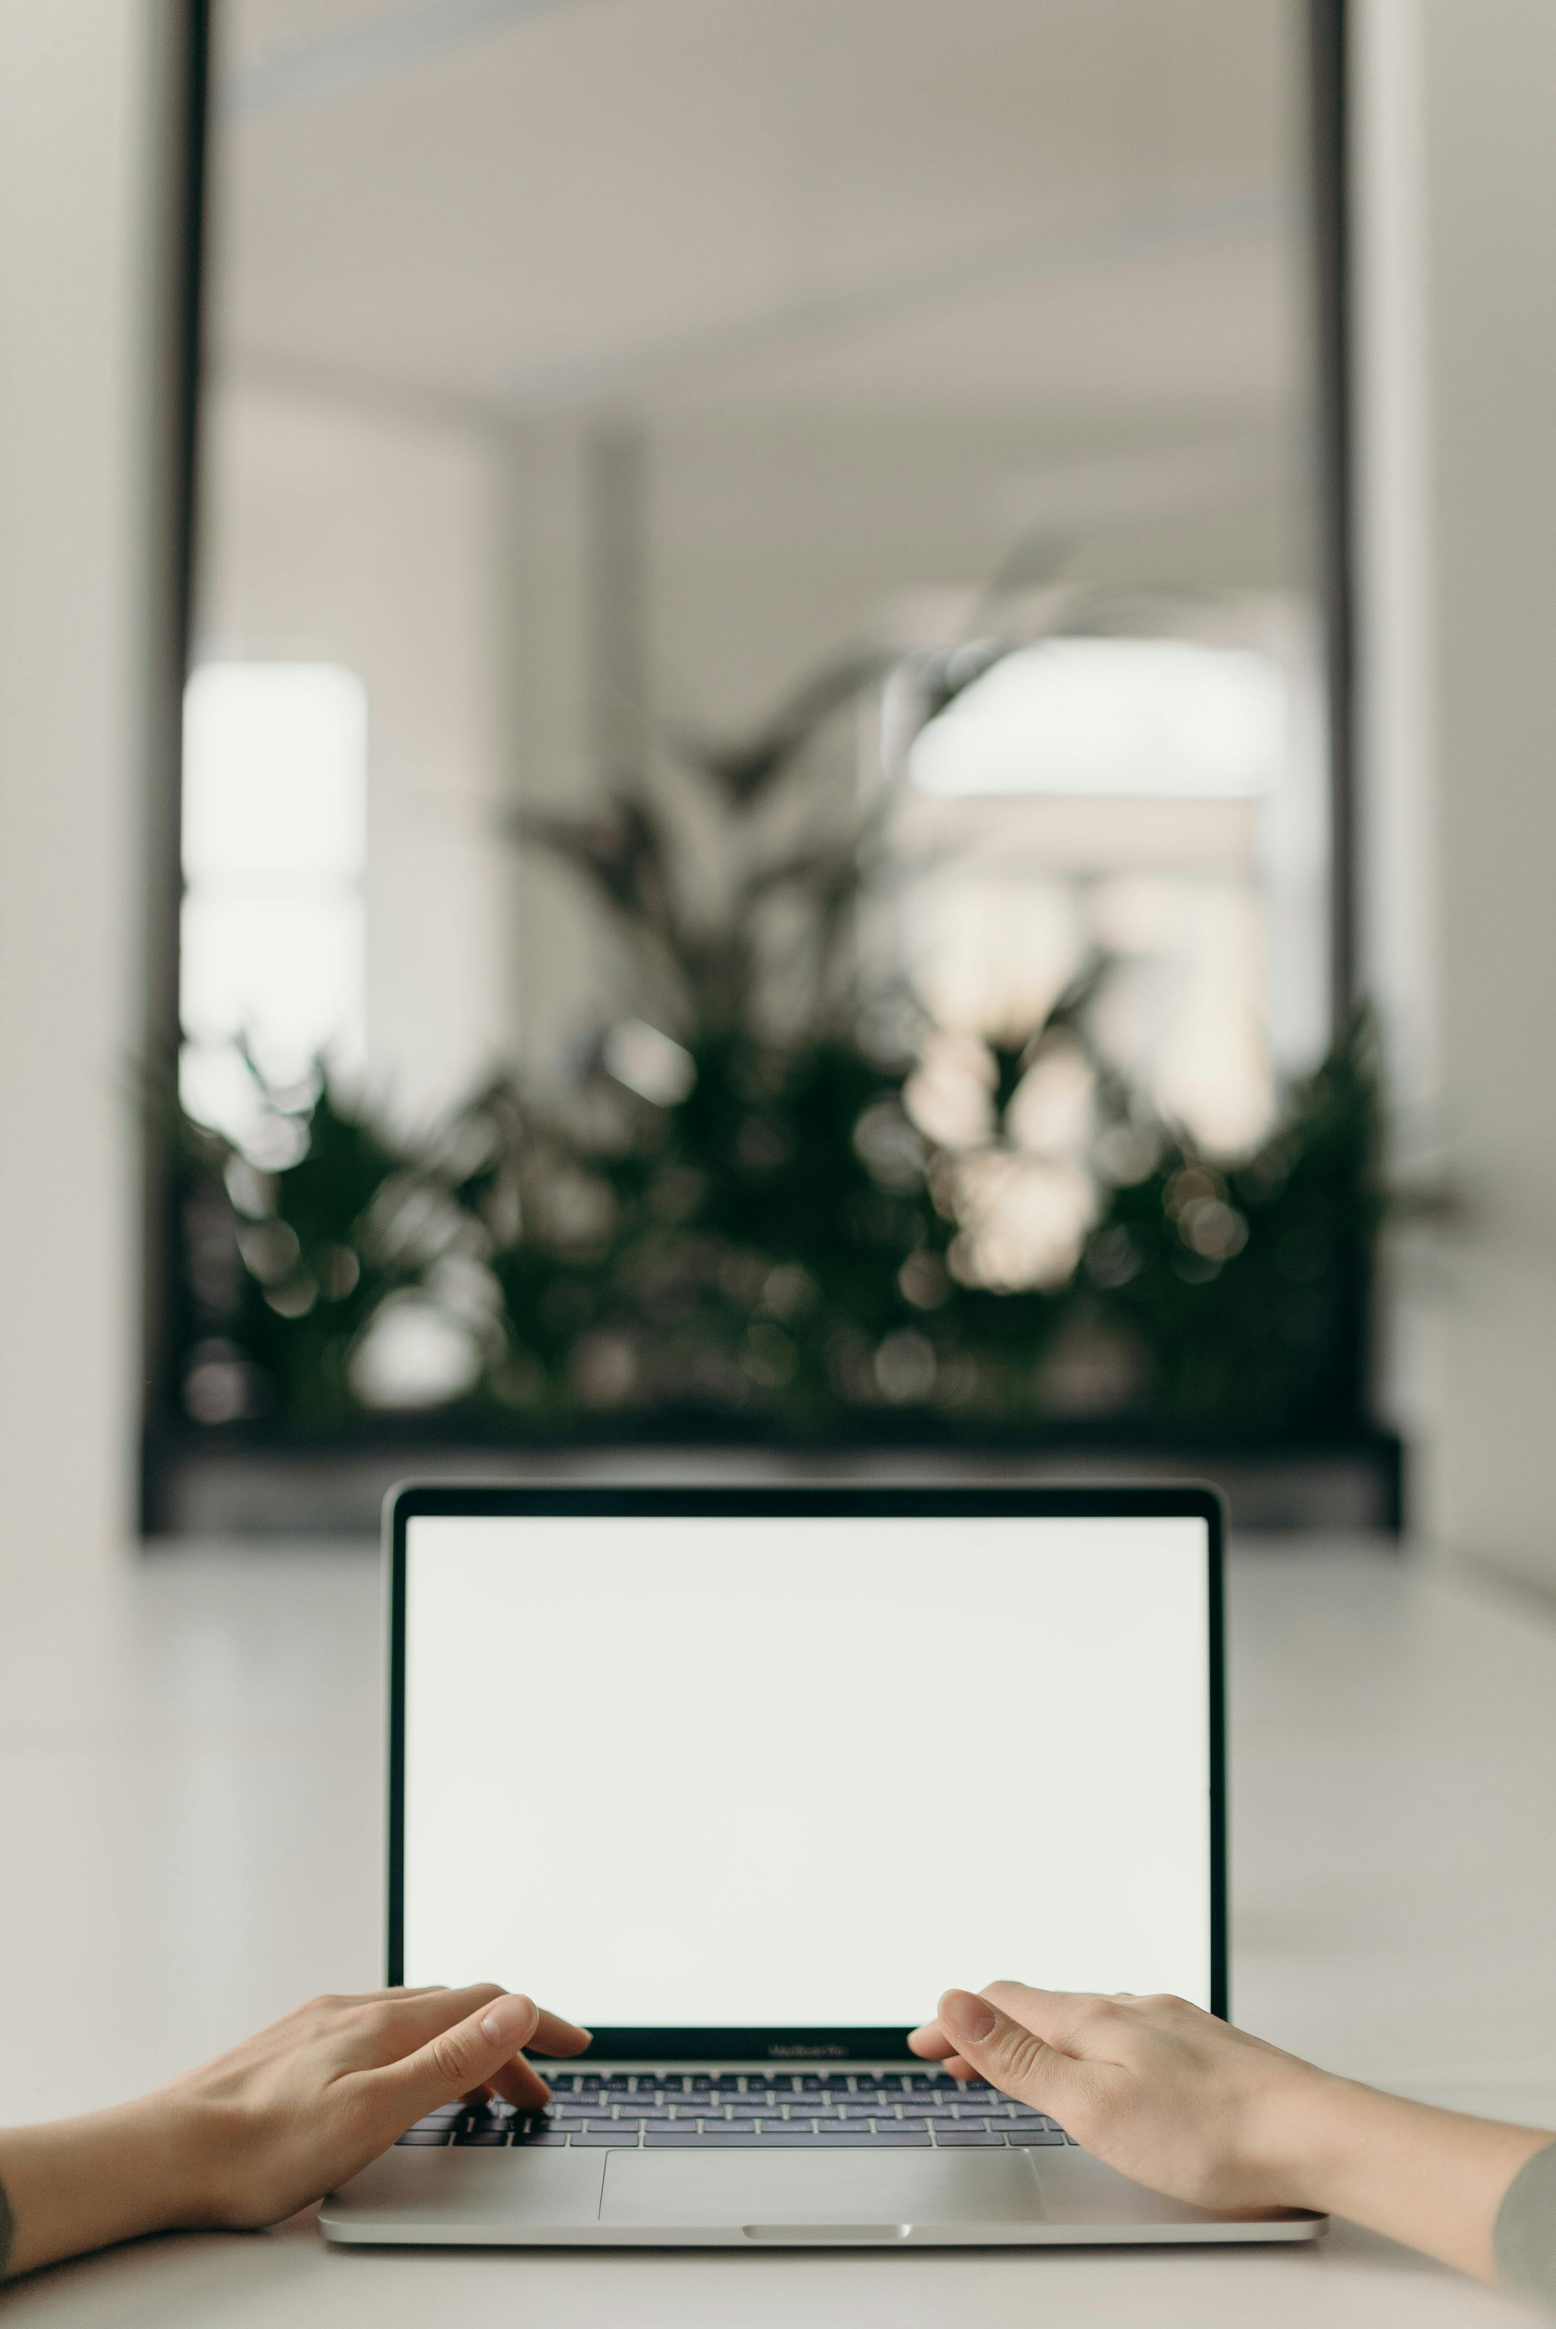
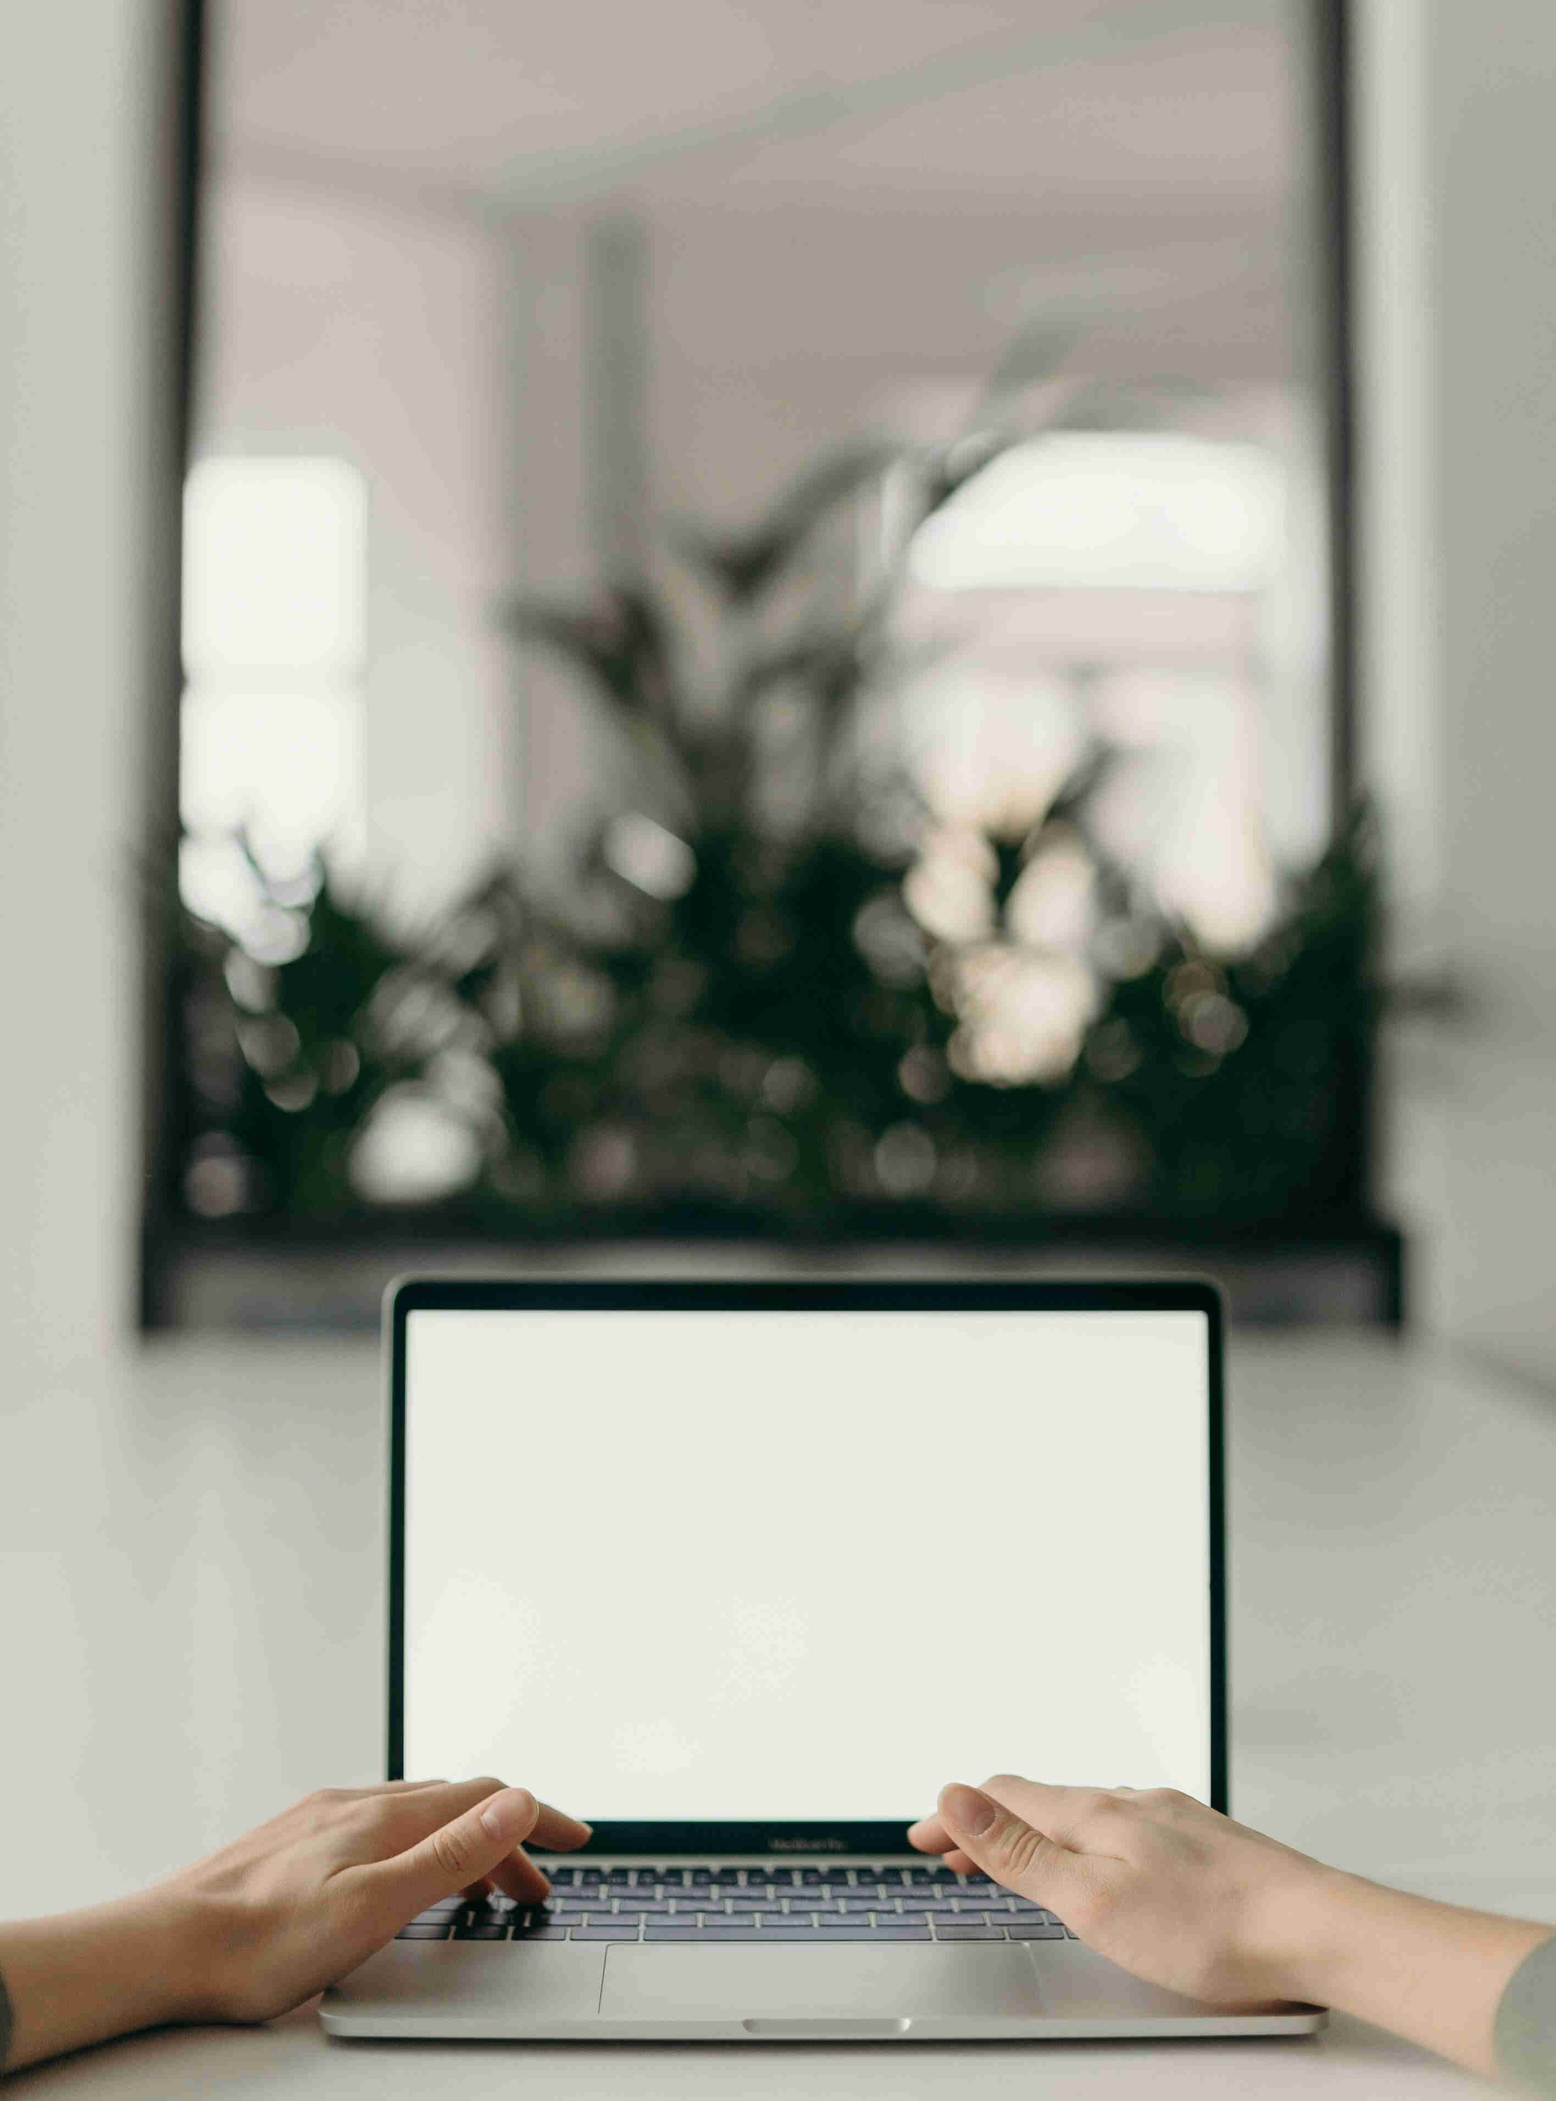
update image on join us page

diff --git a/joinus.html b/joinus.html
@@ -43,7 +43,7 @@
     <div class="main">
       <div class="main__container">
         <div class="main__content">
-          <img src="images/teamwork.jpg" alt="pic" id="main__img">
+          <img src="images/IMG_3082.JPG" alt="pic" id="main__img">
           <a href="https://forms.gle/X1JkjLfGunNhYJLW7" target="_blank"><button class="main__btn apply-button">Volunteering opportunities</button></a>
         </div>
         <div class="main__content">
